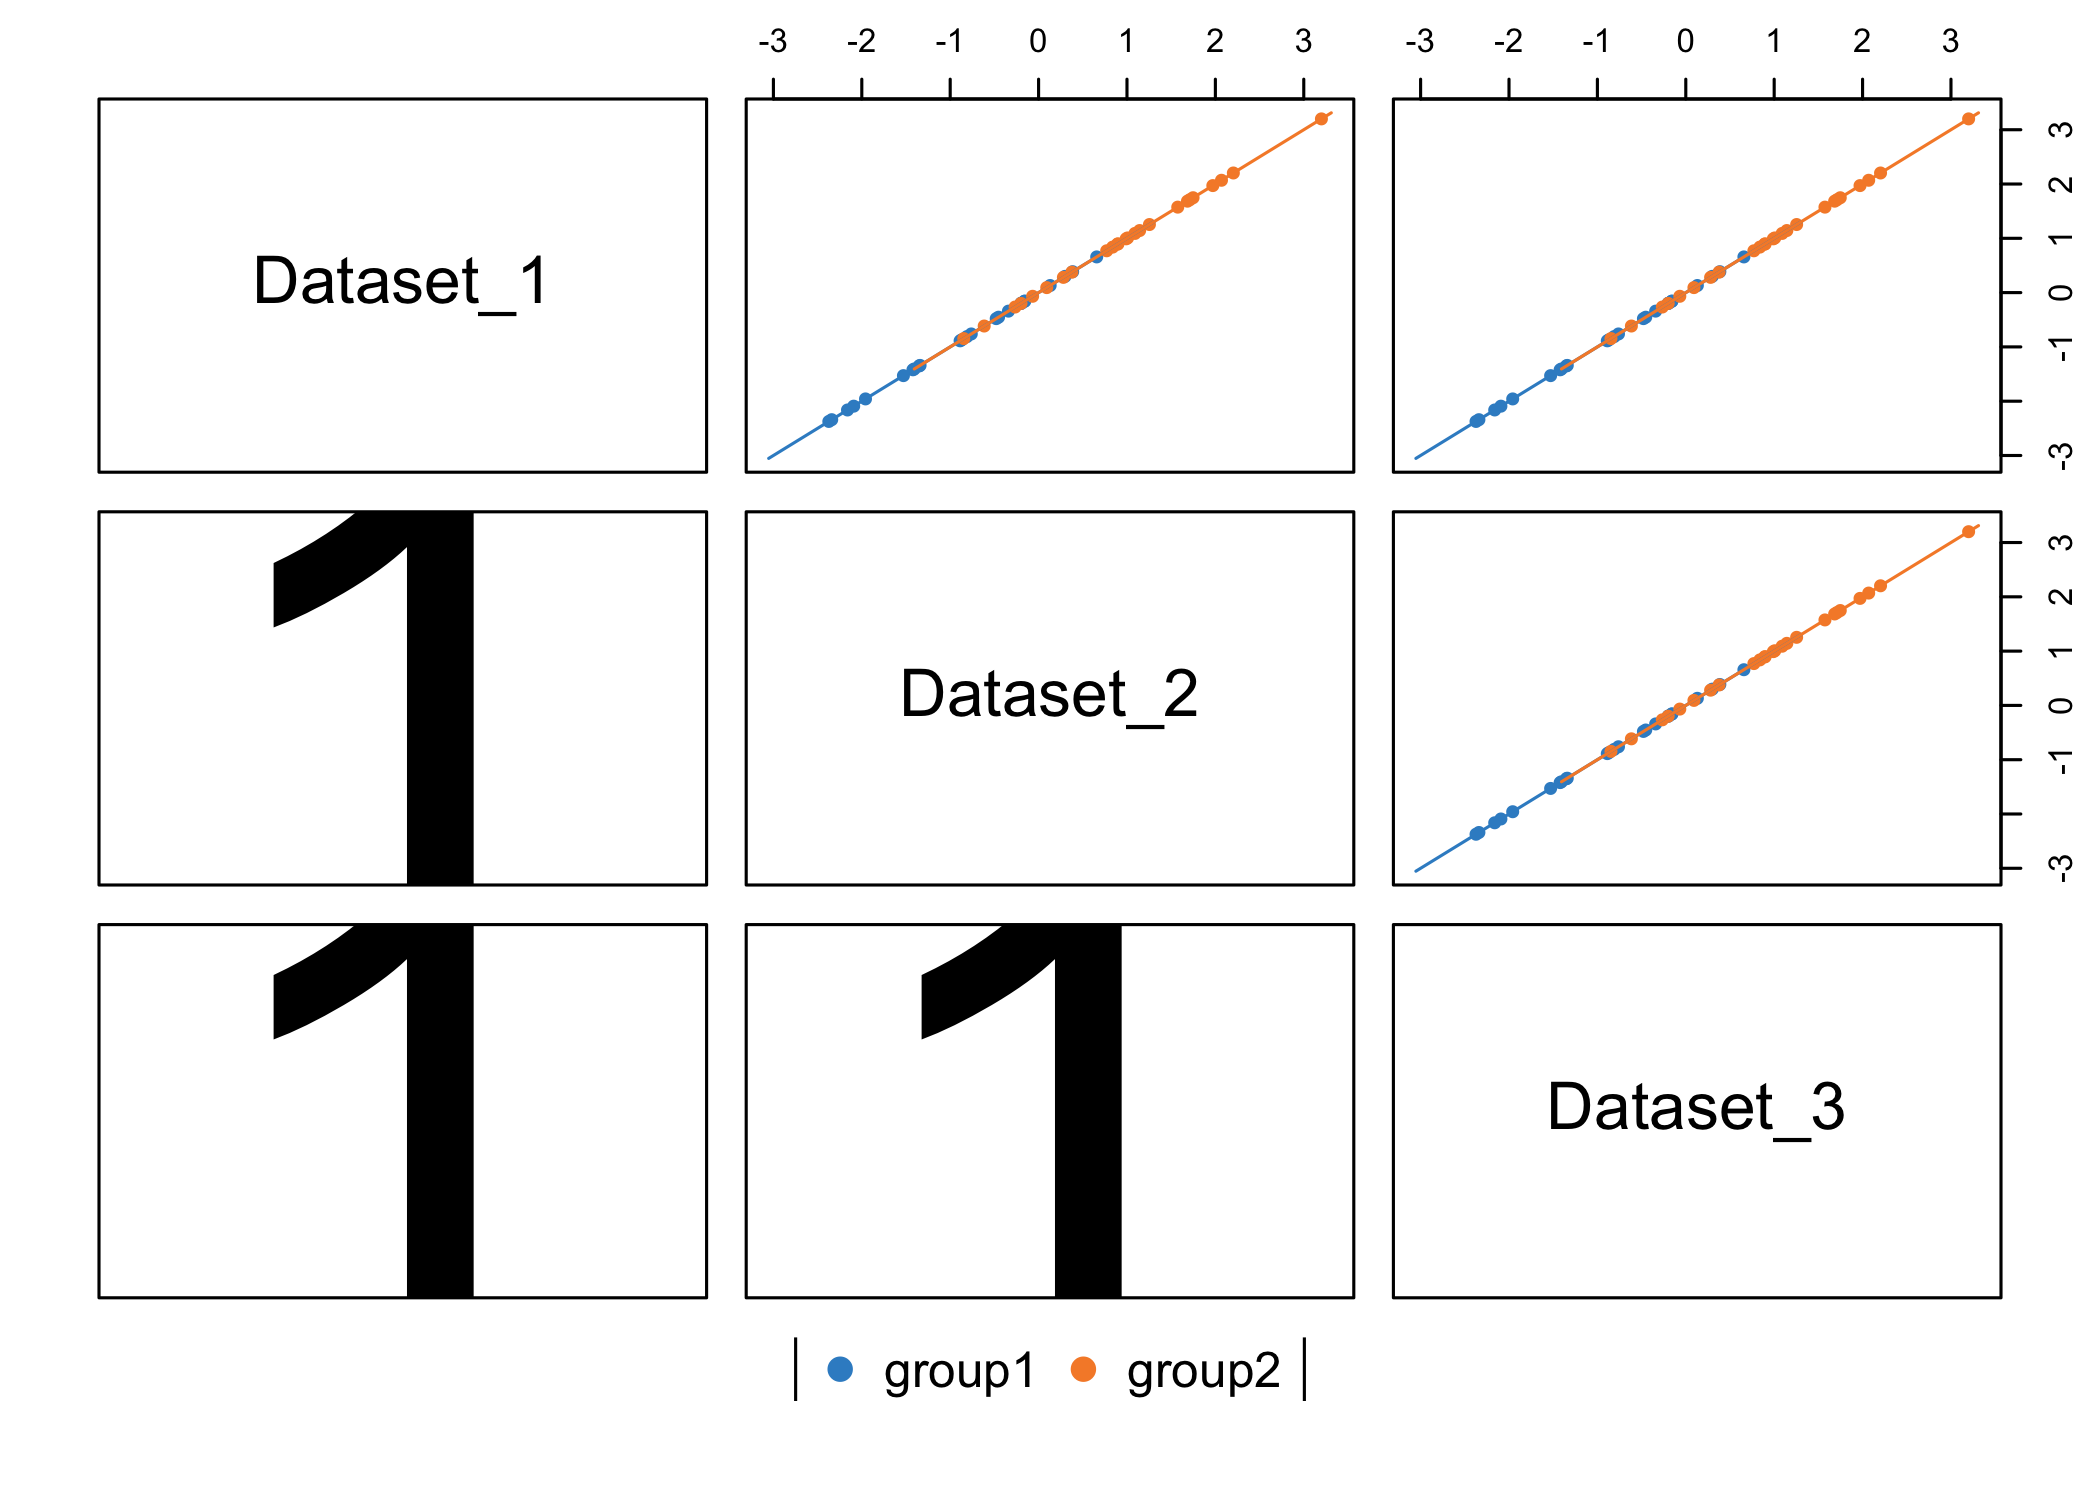
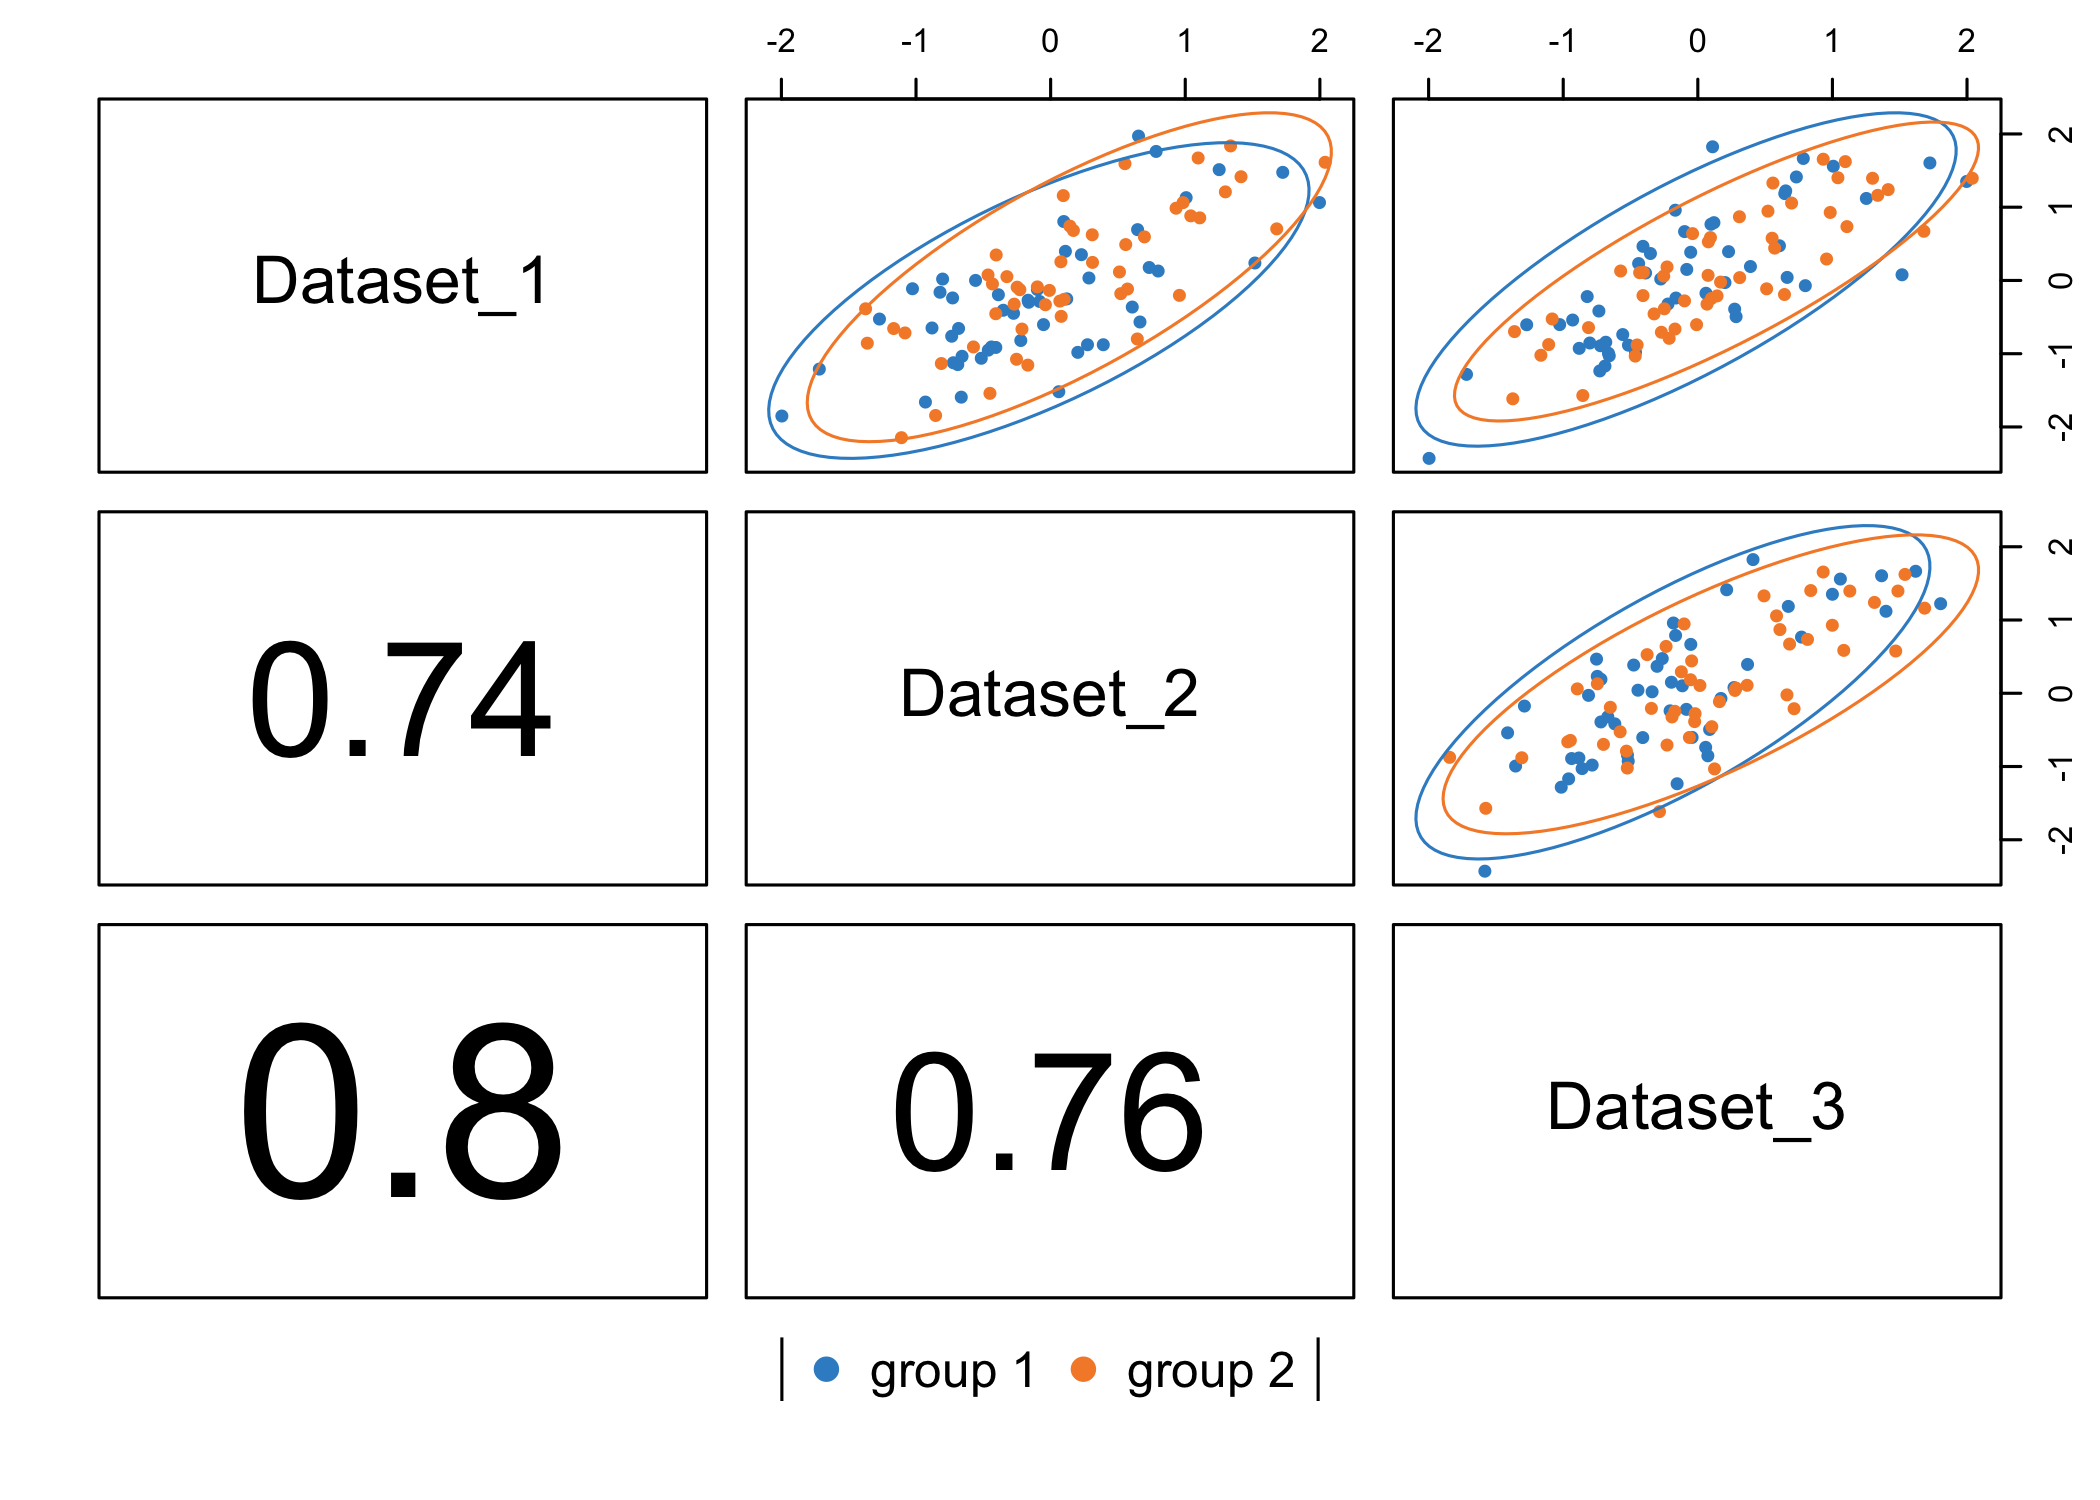
update simulation study

diff --git a/analyses/simulation_study/src/simulation_study.md b/analyses/simulation_study/src/simulation_study.md
@@ -23,54 +23,79 @@ biblio-style: /Users/asingh/Dropbox/Manuscript/diablo/genome-biology.csl
 ## Generate different types of variables and apply diablo to each type separately
 * 3 datasets (effective sample size = 100; group1=100 observations, group2=100 observations)
 * each dataset has four types of variables; lets explore them now
+  + 30 variables that contribute to correlated & discriminatory components
+  + 30 variables that contribute to correlated & nondiscriminatory components
+  + 100 variables that contribute to uncorrelated & discriminatory components
+  + 100 variables that contribute to uncorrelated & nondiscriminatory components
+
+### Correlation structure for each set of simulated variables
+
+#### corDis
 
 
 ```r
-# simulate data with a Fold-change of 2 and noise of 0.5
-fc = 2
-noise = 0.5
 J = 3
-n = 25
-p_relevant = 10
-p_irrelevant = 50
-simdata <- simData(fc, noise, J, n, p_relevant, p_irrelevant)
+fc = 3
+n = 50
+Y <- factor(rep(c("group 1", "group 2"), each = n))
+## Generate variates that contribute to the full design
+rho = 0.8
+sigma = matrix(rho, J, J)
+diag(sigma) = 1
+## Variate for Group 1
+bComp1 <- as.data.frame(rmvnorm(n, rep(-fc/2, J), sigma))
+## Variate for Group 2
+bComp2 <- as.data.frame(rmvnorm(n, rep(fc/2, J), sigma))
+bComp.full <- rbind(bComp1, bComp2)
+bComp_full_irrelevant <- as.data.frame(rmvnorm(2 * n, rep(0, J), sigma))
+colnames(bComp.full) <- colnames(bComp_full_irrelevant) <- paste("Dataset", 
+    1:J, sep = "_")
+
+pairPlot(bComp.full, group = Y)
 ```
 
-## Correlated & Discriminatory (corDis) components
+<img src="simulation_study_files/figure-html/unnamed-chunk-1-1.png" width="100%" />
+
+#### corNonDis
 
 
 ```r
-pairPlot(mat = simdata$bComp.full, group = factor(simdata$Y))
+pairPlot(bComp_full_irrelevant, group = Y)
 ```
 
 <img src="simulation_study_files/figure-html/unnamed-chunk-2-1.png" width="100%" />
 
-## Correlated & Non-Discriminatory (corNonDis) components
+#### unCorDis
 
 
 ```r
-pairPlot(mat = simdata$bComp_full_irrelevant, group = factor(simdata$Y))
+## Generate variates that contribute to the null design
+rho = 0
+sigma = matrix(rho, J, J)
+diag(sigma) = 1
+# Variate for Group 1
+bComp1 <- as.data.frame(rmvnorm(n, rep(-fc/2, J), sigma))
+## Variate for Group 2
+bComp2 <- as.data.frame(rmvnorm(n, rep(fc/2, J), sigma))
+bComp.null <- rbind(bComp1, bComp2)  #+ matrix(rnorm(2*n*J, mean = 0, sd = noise), nc = J)
+bComp_null_irrelevant <- as.data.frame(rmvnorm(2 * n, rep(0, J), sigma))
+colnames(bComp.null) <- colnames(bComp_null_irrelevant) <- paste("Dataset", 
+    1:J, sep = "_")
+
+pairPlot(bComp.null, group = Y)
 ```
 
 <img src="simulation_study_files/figure-html/unnamed-chunk-3-1.png" width="100%" />
 
-## unCorrelated & Non-Discriminatory (unCorNonDis) components
+#### unCorNonDis
 
 
 ```r
-pairPlot(mat = simdata$bComp.full, group = factor(simdata$Y))
+pairPlot(bComp_null_irrelevant, group = Y)
 ```
 
 <img src="simulation_study_files/figure-html/unnamed-chunk-4-1.png" width="100%" />
 
-## unCorrelated & Non-Discriminatory (unCorNonDis) components
-
-
-```r
-pairPlot(mat = simdata$bComp.full, group = factor(simdata$Y))
-```
-
-<img src="simulation_study_files/figure-html/unnamed-chunk-5-1.png" width="100%" />
 
 ## Simulation: vary noise and fold-change and compare with other schemes (concatenation/ensembles)
 * concatenation_splsda, ensemble_splsda, diabloFull, diabloNull
@@ -78,7 +103,7 @@ pairPlot(mat = simdata$bComp.full, group = factor(simdata$Y))
 
 ```r
 J <- 3
-fcSeq <- c(0.5, 1, 2, 4)
+fcSeq <- c(0.5, 1, 2, 3)
 noiseSeq <- c(0.2, 0.3, 0.4, 0.5)
 fc.noise.grid <- expand.grid(fcSeq, noiseSeq)
 colnames(fc.noise.grid) <- c("FC", "Noise")
@@ -178,35 +203,6 @@ for (z in 1:nperms) {
 }
 ```
 
-### Selected variables
-
-
-```r
-selectedVars <- do.call(rbind, varsList_repeat) %>% ungroup %>% mutate(Classifier = factor(Classifier, 
-    levels = c("DIABLO_Full", "DIABLO_Null", "Concatenation", "Ensemble"))) %>% 
-    group_by(Classifier, FC, Noise, varType) %>% summarise(Mean = mean(n), SD = sd(n)) %>% 
-    ggplot(aes(x = Classifier, y = Mean, color = varType, fill = varType)) + 
-    geom_bar(stat = "identity", position = "dodge") + geom_errorbar(aes(ymin = Mean, 
-    ymax = Mean + SD), position = "dodge") + facet_grid(FC ~ Noise) + customTheme(sizeStripFont = 15, 
-    xAngle = -45, hjust = 0, vjust = 1, xSize = 10, ySize = 10, xAxisSize = 10, 
-    yAxisSize = 10) + ylab("Mean±SD of the number of selected variables (50 simulations)") + 
-    geom_hline(yintercept = 90, linetype = "dashed") + xlab("Integrative Classifiers")
-selectedVars
-```
-
-<img src="simulation_study_files/figure-html/unnamed-chunk-7-1.png" width="100%" />
-
-```r
-pdf(paste0(WhereAmI, "results/selectedVariables.pdf"), width = 10, height = 10)
-selectedVars
-dev.off()
-```
-
-```
-## quartz_off_screen 
-##                 2
-```
-
 ## error rate
 
 
@@ -215,18 +211,40 @@ errorRates <- do.call(rbind, errList_repeat) %>% mutate(Classifier = factor(Clas
     levels = c("DIABLO_Full", "DIABLO_Null", "Concatenation", "Ensemble"))) %>% 
     group_by(Classifier, FC, Noise) %>% summarise(Mean = mean(error), SD = sd(error)) %>% 
     ggplot(aes(x = Classifier, y = Mean)) + geom_bar(stat = "identity") + geom_errorbar(aes(ymin = Mean - 
-    SD, ymax = Mean + SD)) + facet_grid(FC ~ Noise) + customTheme(sizeStripFont = 15, 
-    xAngle = -45, hjust = 0, vjust = 1, xSize = 10, ySize = 10, xAxisSize = 10, 
-    yAxisSize = 10) + ylab("Mean±SD of error rate (10-fold cross-validation over 50 simulations)") + 
+    SD, ymax = Mean + SD)) + facet_grid(FC ~ Noise) + customTheme(sizeStripFont = 25, 
+    xAngle = -45, hjust = 0, vjust = 1, xSize = 15, ySize = 15, xAxisSize = 15, 
+    yAxisSize = 15) + ylab("Mean±SD of error rate \n 10-fold cross-validation over 50 simulations") + 
     xlab("Integrative Classifiers") + geom_hline(yintercept = 0.5, linetype = "dashed")
-
-pdf(paste0(WhereAmI, "results/errorRates.pdf"), width = 10, height = 10)
 errorRates
+```
+
+<img src="simulation_study_files/figure-html/unnamed-chunk-6-1.png" width="100%" />
+
+### Selected variables
+
+
+```r
+selectedVars <- do.call(rbind, varsList_repeat) %>% ungroup %>% mutate(Classifier = factor(Classifier, 
+    levels = c("DIABLO_Full", "DIABLO_Null", "Concatenation", "Ensemble"))) %>% 
+    group_by(Classifier, FC, Noise, varType) %>% summarise(Mean = mean(n), SD = sd(n)) %>% 
+    ggplot(aes(x = Classifier, y = Mean, color = varType, fill = varType)) + 
+    geom_bar(stat = "identity") + # geom_errorbar(aes(ymin = Mean, ymax = Mean+SD), position='dodge') +
+facet_grid(FC ~ Noise) + customTheme(sizeStripFont = 25, xAngle = -45, hjust = 0, 
+    vjust = 1, xSize = 15, ySize = 15, xAxisSize = 15, yAxisSize = 15) + ylab("Average number of selected variables \n across 3 datasets over 50 simulations") + 
+    geom_hline(yintercept = 90, linetype = "dashed") + xlab("Integrative Classifiers") + 
+    scale_y_continuous(breaks = c(30, 60, 90))
+selectedVars
+```
+
+<img src="simulation_study_files/figure-html/unnamed-chunk-7-1.png" width="100%" />
+
+```r
+pdf(paste0(WhereAmI, "results/simulationResults.pdf"), width = 20, height = 10)
+plot_grid(errorRates, selectedVars, labels = c("A", "B"), label_size = 30)
 dev.off()
 ```
 
 ```
-## quartz_off_screen 
-##                 2
+## pdf 
+##   3
 ```
-
